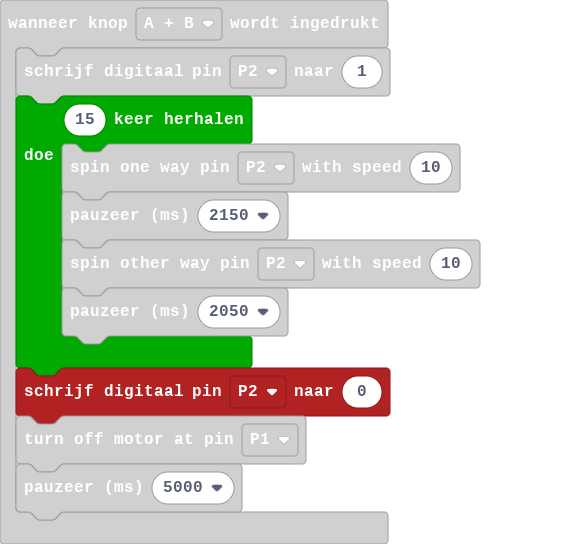
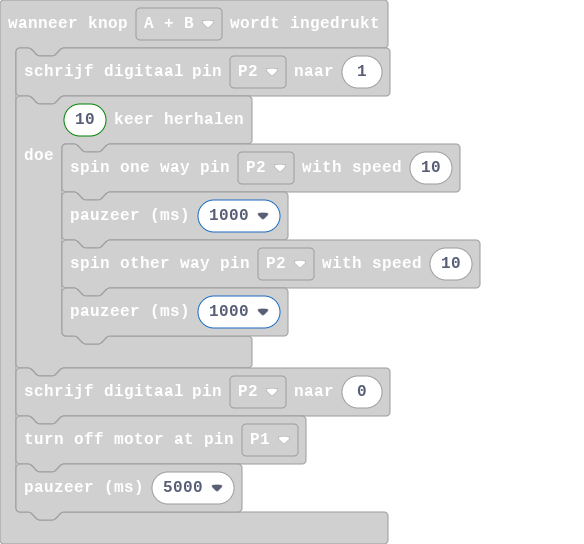
main.blocks, main.ts bijwerken

Changed region(s): [[0.0, 0.1562, 0.6781, 0.7812], [0.339, 0.3438, 0.4623, 0.4375]]

diff --git a/main.ts b/main.ts
@@ -3,11 +3,11 @@ input.onButtonPressed(Button.A, function () {
 })
 input.onButtonPressed(Button.AB, function () {
     pins.digitalWritePin(DigitalPin.P2, 1)
-    for (let index = 0; index < 15; index++) {
+    for (let index = 0; index < 10; index++) {
         ContinuousServo.spin_one_way_with_speed(AnalogPin.P2, 10)
-        basic.pause(2150)
+        basic.pause(1000)
         ContinuousServo.spin_other_way_with_speed(AnalogPin.P2, 10)
-        basic.pause(2050)
+        basic.pause(1000)
     }
     pins.digitalWritePin(DigitalPin.P2, 0)
     ContinuousServo.turn_off_motor(DigitalPin.P1)
